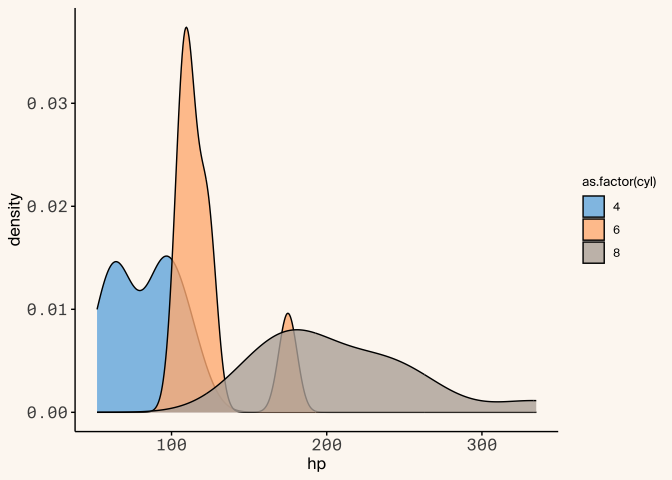
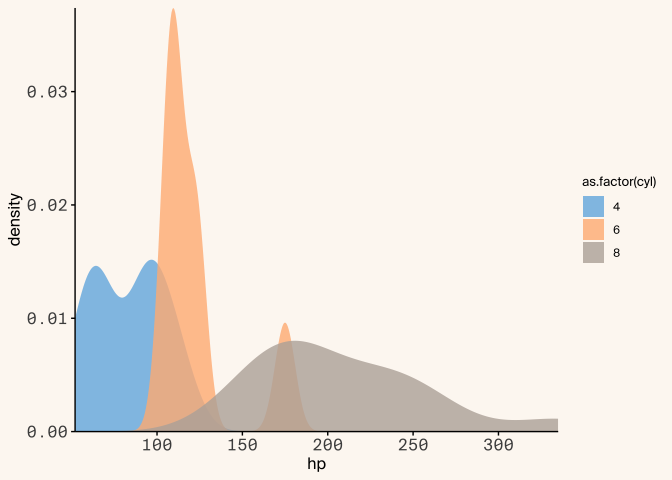
reworking scale and palette functions to be separate and call the colors/palettes

diff --git a/README.md b/README.md
@@ -41,14 +41,31 @@ ggplot(data=mtcars, aes(x=hp, y=mpg, color=as.factor(cyl))) +
 
 ![](man/figures/README-base_use-1.png)<!-- -->
 
+By default the `theme_arcadia()` function assumes that both axes are
+numerical data. Since we have different font and plot styles for
+categorical data, you can specify if the axis is categorical with:
+
+``` r
+
+ggplot(data=diamonds, aes(x=cut, fill=cut)) +
+  geom_bar() +
+  theme_arcadia(x_axis_type = "categorical") +
+  scale_fill_arcadia("accent") +
+  scale_y_continuous(expand=c(0,0)) # removes whitespace between axis and bars
+```
+
+![](man/figures/README-categorical_plot-1.png)<!-- -->
+
 You can also select different indices of colors from the palettes within
 the `scale` function:
 
 ``` r
 ggplot(mtcars, aes(x = hp, fill = as.factor(cyl))) +
-  geom_density(alpha = 0.8) +
+  geom_density(alpha = 0.8, color = NA) + # remove border line from filled-in density plots
   theme_arcadia() +
-  scale_fill_arcadia("accent_expanded", start=2, end=5)
+  scale_fill_arcadia("accent_expanded", start=2, end=5) +
+  scale_y_continuous(expand=c(0,0)) +
+  scale_x_continuous(expand=c(0,0)) # remove whitespace between both axes and the plot
 ```
 
 ![](man/figures/README-scale_index-1.png)<!-- -->
